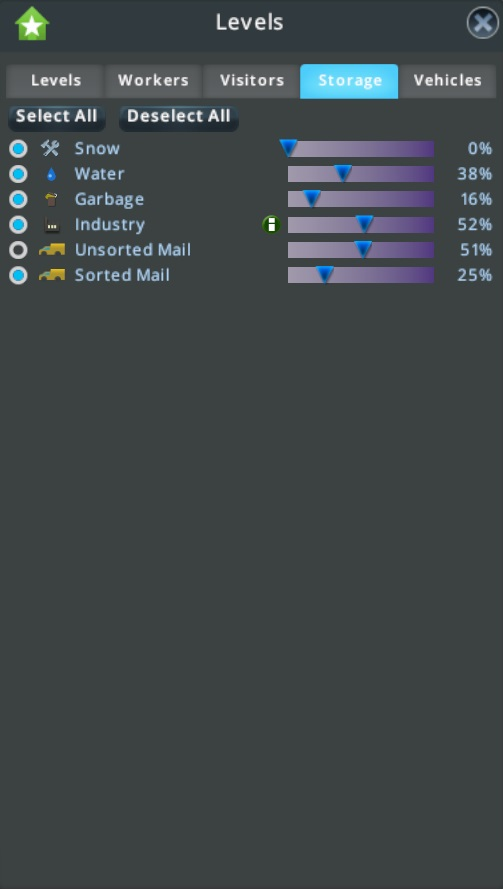
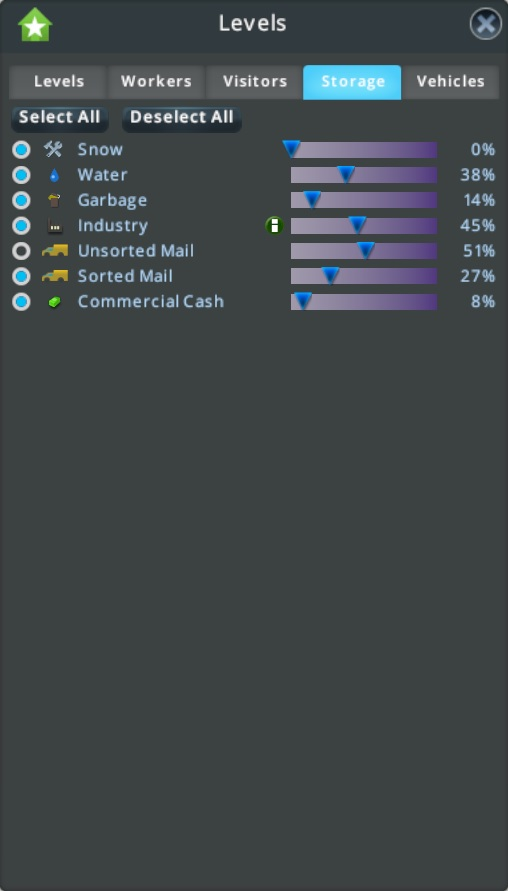
Version 1.19

diff --git a/StorageUsagePanel.cs b/StorageUsagePanel.cs
@@ -41,24 +41,32 @@ namespace BuildingUsage
                 CreateUsageGroup<ExtractingFacilityAI, FishingHarborAI, FishFarmAI, ProcessingFacilityAI, UniqueFactoryAI, WarehouseAI>(UsageType.StorageIndustry);
                 CreateUsageGroup<PostOfficeAI                               >(UsageType.StoragePostUnsorted);
                 CreateUsageGroup<PostOfficeAI                               >(UsageType.StoragePostSorted);
+                // CommercialBuildingAI is in the base game, but Commercial Cash is only for FinancialDistrictsDLC
+                if (SteamHelper.IsDLCOwned(SteamHelper.DLC.FinancialDistrictsDLC))
+                {
+                    CreateUsageGroup<CommercialBuildingAI                    >(UsageType.StorageCommercialCash);
+                }
 
                 // add detail panel
                 AddDetailPanel<StorageIndustryUsagePanel>(UsageType.StorageIndustry);
 
                 // associate each building AI type with its usage type(s) and usage count routine(s)
                 // associate building AIs even if corresponding DLC is not installed (there will simply be no buildings with that AI)
-                AssociateBuildingAI<SnowDumpAI              >(UsageType.StorageSnow,            GetUsageCountStorageSnowDump                              );
-                AssociateBuildingAI<WaterFacilityAI         >(UsageType.UseLogic1,              GetUsageCountStorageWaterFacility                         );
-                AssociateBuildingAI<LandfillSiteAI          >(UsageType.StorageGarbage,         GetUsageCountStorageLandfillSite<LandfillSiteAI>          );
-                AssociateBuildingAI<UltimateRecyclingPlantAI>(UsageType.StorageGarbage,         GetUsageCountStorageLandfillSite<UltimateRecyclingPlantAI>);
-                AssociateBuildingAI<ExtractingFacilityAI    >(UsageType.StorageIndustry,        GetUsageCountStorageExtractingFacility                    );
-                AssociateBuildingAI<FishingHarborAI         >(UsageType.StorageIndustry,        GetUsageCountStorageFishingHarbor                         );
-                AssociateBuildingAI<FishFarmAI              >(UsageType.StorageIndustry,        GetUsageCountStorageFishFarm                              );
-                AssociateBuildingAI<ProcessingFacilityAI    >(UsageType.StorageIndustry,        GetUsageCountStorageProcessingFacilityTotal               );
-                AssociateBuildingAI<UniqueFactoryAI         >(UsageType.StorageIndustry,        GetUsageCountStorageUniqueFactoryTotal                    );
-                AssociateBuildingAI<WarehouseAI             >(UsageType.StorageIndustry,        GetUsageCountStorageWarehouse                             );
-                AssociateBuildingAI<PostOfficeAI            >(UsageType.StoragePostUnsorted,    GetUsageCountStoragePostOfficeUnsorted                    ,
-                                                              UsageType.StoragePostSorted,      GetUsageCountStoragePostOfficeSorted                      );
+                AssociateBuildingAI<SnowDumpAI                              >(UsageType.StorageSnow,            GetUsageCountStorageSnowDump                                );
+                AssociateBuildingAI<WaterFacilityAI                         >(UsageType.UseLogic1,              GetUsageCountStorageWaterFacility                           );
+                AssociateBuildingAI<LandfillSiteAI                          >(UsageType.StorageGarbage,         GetUsageCountStorageLandfillSite<LandfillSiteAI>            );
+                AssociateBuildingAI<UltimateRecyclingPlantAI                >(UsageType.StorageGarbage,         GetUsageCountStorageLandfillSite<UltimateRecyclingPlantAI>  );
+                AssociateBuildingAI<ExtractingFacilityAI                    >(UsageType.StorageIndustry,        GetUsageCountStorageExtractingFacility                      );
+                AssociateBuildingAI<FishingHarborAI                         >(UsageType.StorageIndustry,        GetUsageCountStorageFishingHarbor                           );
+                AssociateBuildingAI<FishFarmAI                              >(UsageType.StorageIndustry,        GetUsageCountStorageFishFarm                                );
+                AssociateBuildingAI<ProcessingFacilityAI                    >(UsageType.StorageIndustry,        GetUsageCountStorageProcessingFacilityTotal                 );
+                AssociateBuildingAI<UniqueFactoryAI                         >(UsageType.StorageIndustry,        GetUsageCountStorageUniqueFactoryTotal                      );
+                AssociateBuildingAI<WarehouseAI                             >(UsageType.StorageIndustry,        GetUsageCountStorageWarehouse                               );
+                AssociateBuildingAI<PostOfficeAI                            >(UsageType.StoragePostUnsorted,    GetUsageCountStoragePostOfficeUnsorted                      ,
+                                                                              UsageType.StoragePostSorted,      GetUsageCountStoragePostOfficeSorted                        );
+                AssociateBuildingAI<CommercialBuildingAI                    >(UsageType.StorageCommercialCash,  GetUsageCountStorageCommercialCash                          );
+                AssociateBuildingAI("PloppableRICO.GrowableCommercialAI",     UsageType.StorageCommercialCash,  GetUsageCountStorageCommercialCash                          );
+                AssociateBuildingAI("PloppableRICO.PloppableCommercialAI",    UsageType.StorageCommercialCash,  GetUsageCountStorageCommercialCash                          );
 
                 // set mutually exclusive check boxes
                 MakeCheckBoxesMutuallyExclusive(UsageType.StoragePostUnsorted, UsageType.StoragePostSorted);

diff --git a/UsagePanel.cs b/UsagePanel.cs
@@ -188,6 +188,7 @@ namespace BuildingUsage
             StorageIndustry,
             StoragePostUnsorted,
             StoragePostSorted,
+            StorageCommercialCash,
 
             // storage industry usage types
             StorageIndustryForestryExtractor,
@@ -284,7 +285,7 @@ namespace BuildingUsage
             }
             public AtlasType atlasType;
             public string spriteNameNormal;
-            public string spriteNameDisabled => spriteNameNormal + ((spriteNameNormal == "SubBarFireDepartmentFire") ? "Focused" : "Disabled");
+            public string spriteNameDisabled => (spriteNameNormal == "SubBarFireDepartmentFire") ? "SubBarFireDepartmentFireFocused" : spriteNameNormal + "Disabled";
             public float width;
             public float height;
 
@@ -322,6 +323,7 @@ namespace BuildingUsage
         private static readonly ThumbnailInfo thumbnailInfoDisaster             = new ThumbnailInfo(ThumbnailInfo.AtlasType.InGame,     "SubBarFireDepartmentDisaster",             32f, 22f);
         private static readonly ThumbnailInfo thumbnailInfoPolice               = new ThumbnailInfo(ThumbnailInfo.AtlasType.InGame,     "SubBarPoliceDefault",                      32f, 22f);
         private static readonly ThumbnailInfo thumbnailInfoBanks                = new ThumbnailInfo(ThumbnailInfo.AtlasType.InGame,     "SubBarBanks",                              32f, 22f);
+        private static readonly ThumbnailInfo thumbnailInfoMoney                = new ThumbnailInfo(ThumbnailInfo.AtlasType.InGame,     "ToolbarIconMoney",                         41f, 41f);
         private static readonly ThumbnailInfo thumbnailInfoEducation            = new ThumbnailInfo(ThumbnailInfo.AtlasType.InGame,     "SubBarEducationDefault",                   32f, 22f);
         private static readonly ThumbnailInfo thumbnailInfoBigBuildings         = new ThumbnailInfo(ThumbnailInfo.AtlasType.InGame,     "UIFilterBigBuildings",                     36f, 36f);
         private static readonly ThumbnailInfo thumbnailInfoEducationBuildings   = new ThumbnailInfo(ThumbnailInfo.AtlasType.InGame,     "UIFilterEducationBuildings",               36f, 36f);
@@ -561,6 +563,7 @@ namespace BuildingUsage
             { UsageType.StorageIndustry,                        new UsageTypeInfo("Industry",           thumbnailInfoIndustry           ) },
             { UsageType.StoragePostUnsorted,                    new UsageTypeInfo("Unsorted Mail",      thumbnailInfoTransportPost      ) },
             { UsageType.StoragePostSorted,                      new UsageTypeInfo("Sorted Mail",        thumbnailInfoTransportPost      ) },
+            { UsageType.StorageCommercialCash,                  new UsageTypeInfo("Commercial Cash",    thumbnailInfoMoney              ) },
 
             // storage industry usage types
             { UsageType.StorageIndustryForestryExtractor,       new UsageTypeInfo("Extractor Output",   thumbnailInfoExtractor          ) },
@@ -3182,6 +3185,45 @@ namespace BuildingUsage
 
             // get sorted allowed
             allowed = ComputePostAllowed(ref data);
+        }
+
+        /// <summary>
+        /// get the cash usage count of a Commercial building
+        /// </summary>
+        protected void GetUsageCountStorageCommercialCash(ushort buildingID, ref Building data, ref int used, ref int allowed)
+        {
+            // initialize
+            used = 0;
+            allowed = 0;
+
+            // building must be created
+            Building building = BuildingManager.instance.m_buildings.m_buffer[buildingID];
+            if ((building.m_flags & Building.Flags.Created) != 0)
+            {
+                // building AI must be defined
+                if (building.Info != null && building.Info.m_buildingAI != null)
+                {
+                    // building AI must be CommercialBuildingAI or derived from it
+                    // this will include PloppableRICO.PloppableCommercialAI and PloppableRICO.GrowableCommercialAI which derive from CommercialBuildingAI
+                    BuildingAI buildingAI = building.Info.m_buildingAI;
+                    Type buildingAIType = buildingAI.GetType();
+                    if (buildingAIType == typeof(CommercialBuildingAI) || buildingAIType.IsSubclassOf(typeof(CommercialBuildingAI)))
+                    {
+                        // get the method info for the cash capacity function
+                        MethodInfo getCashCapacity = typeof(CommercialBuildingAI).GetMethod("GetCashCapacity", BindingFlags.Instance | BindingFlags.NonPublic);
+                        if (getCashCapacity == null)
+                        {
+                            LogUtil.LogError("Unable to get method [CommercialBuildingAI.GetCashCapacity]");
+                            return;
+                        }
+
+                        // get the building cash amount and capacity
+                        // logic adapted from CommercialBuildingAI.GetDebugString
+                        used = building.m_cashBuffer / 10;
+                        allowed = (int)getCashCapacity.Invoke((CommercialBuildingAI)buildingAI, new object[] { buildingID, building }) / 10;
+                    }
+                }
+            }
         }
 
         /// <summary>

diff --git a/BuildingAIPatch.cs b/BuildingAIPatch.cs
@@ -70,7 +70,7 @@ namespace BuildingUsage
 
         // ResidentialBuildingAI            GC W--- Zoned Generic Low Density BG, Zoned Generic High Density BG, Zoned Specialized Residential (Self-Sufficient Buildings GC, Wall-to-Wall PP)
         // CommercialBuildingAI             GC W--- Zoned Generic Low Density BG, Zoned Generic High Density BG, Zoned Specialized Commercial (Tourism AD, Wall-to-Wall PP, Leisure AD, Organic and Local Produce GC)
-        // OfficeBuildingAI                 GC W--- Zoned Generic Office BG, Zoned Specialized Office (IT Cluster GC, Wall-to-Wall PP)
+        // OfficeBuildingAI                 GC W--- Zoned Generic Office BG, Zoned Specialized Office (IT Cluster GC, Wall-to-Wall PP, Financial FD)
         // IndustrialBuildingAI             GC W--V Zoned Generic Industrial BG
         // IndustrialExtractorAI            GC W--V Zoned Specialized Industrial (Forest BG, Farming BG, Ore BG, Oil BG)
         //    LivestockExtractorAI             W--V Zoned Specialized Industrial (Farming BG)

diff --git a/Properties/AssemblyInfo.cs b/Properties/AssemblyInfo.cs
@@ -21,7 +21,7 @@ using System.Runtime.InteropServices;
 // The AssemblyVersion has the format "{Major}.{Minor}.{Build}.{Revision}".
 // The form "{Major}.{Minor}.*" will automatically update the build and revision.
 // The form "{Major}.{Minor}.{Build}.*" will update just the revision.
-[assembly: AssemblyVersion("1.18.*")]
+[assembly: AssemblyVersion("1.19.*")]
 
 // The AssemblyFileVersion is commented out which causes the AssemblyFileVersion to be the same as the AssemblyVersion, as desired.
 //[assembly: AssemblyFileVersion("1.0.0.0")]
